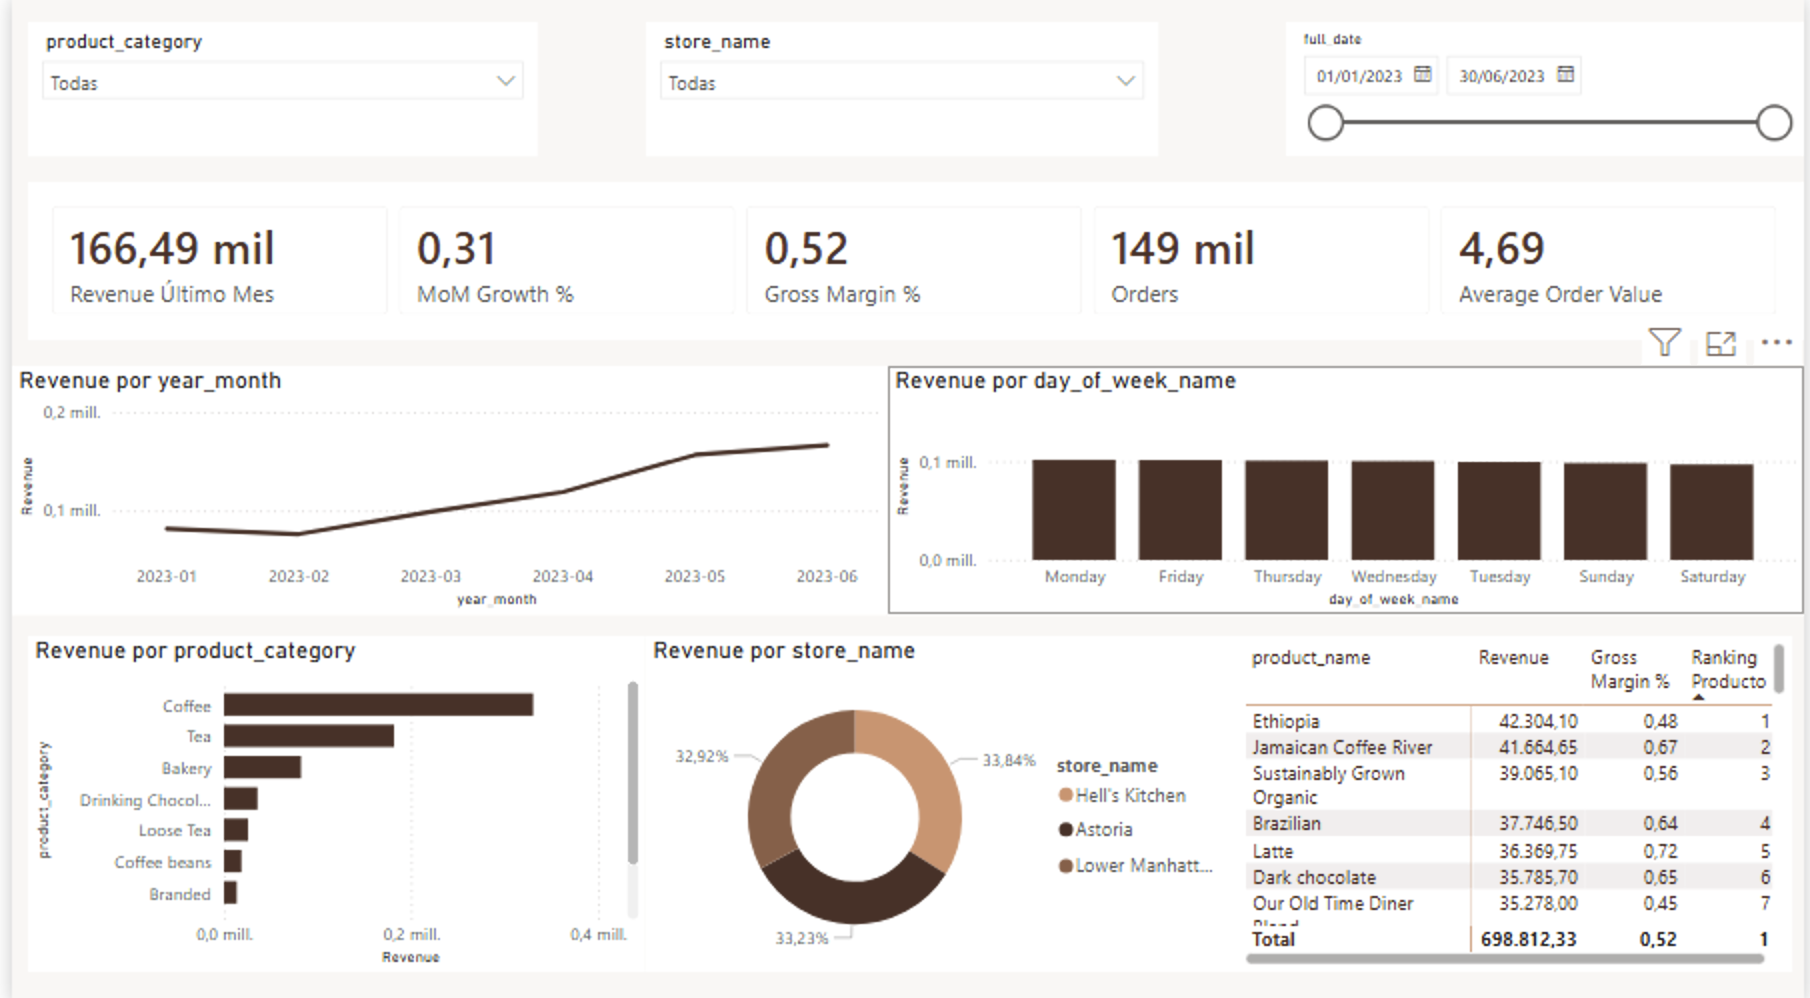
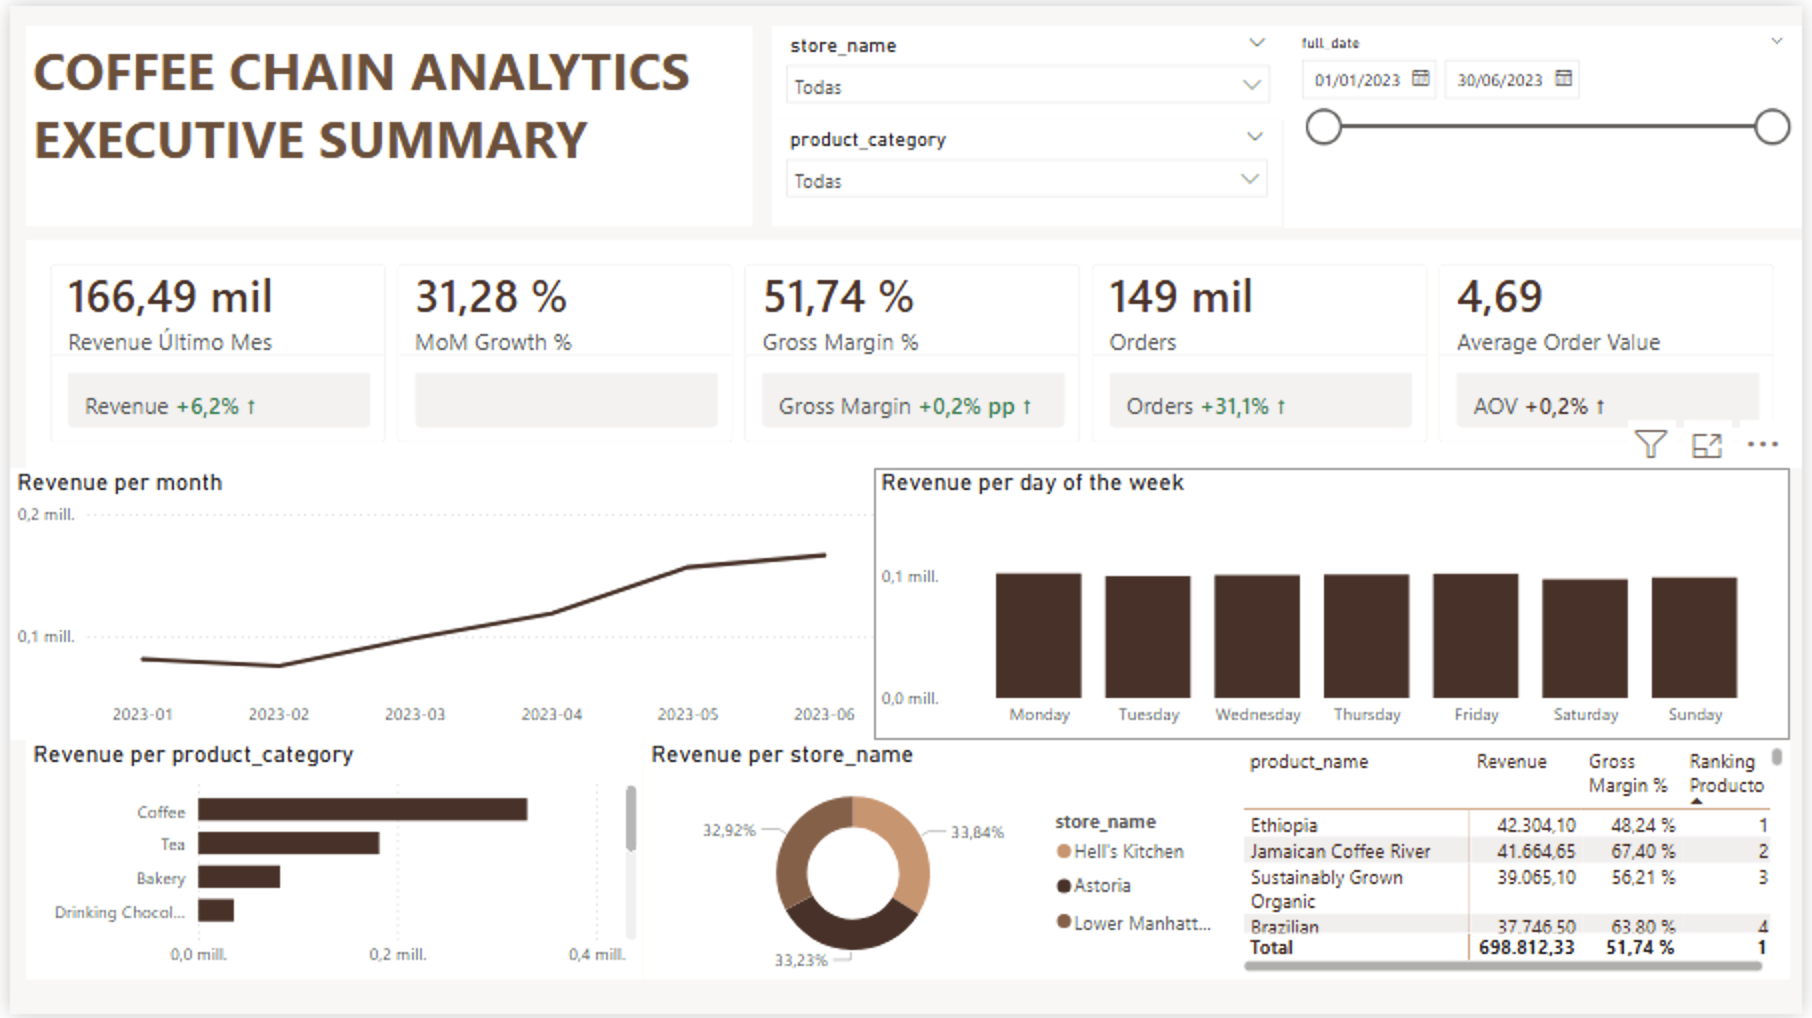
Update BI docs and screenshots to match final dashboard delivery

diff --git a/portfolio/BI_DASHBOARDS.md b/portfolio/BI_DASHBOARDS.md
@@ -28,15 +28,14 @@ No se forzó una capa visual "demasiado completa" con métricas no modeladas tod
 - expansión a dashboards adicionales por audiencia
 
 ## KPIs implementados
-- `Revenue`: suma de `gross_revenue`
-- `Revenue Último Mes`: revenue del último mes disponible en el filtro
-- `MoM Growth %`: variación porcentual de revenue vs período anterior
+- `Revenue Último Mes`: revenue del último mes visible en el rango seleccionado
+- `MoM Growth %`: variación porcentual de revenue vs mes anterior
 - `Gross Profit`: suma de `gross_profit`
 - `Gross Margin %`: `Gross Profit / Revenue`
-- `Orders`: conteo de transacciones
+- `Orders`: conteo de órdenes / transacciones
 - `Average Order Value`: `Revenue / Orders`
 - `Labor Cost %`: `total_labor_cost / daily_revenue`
-- `Labor Cost Status`: semáforo operativo derivado de `Labor Cost %`
+- `Labor Cost Status`: estado operativo derivado de `Labor Cost %`
 - `Waste Amount`: suma de `waste_amount_usd`
 - `Waste Rate %`: merma relativa sobre consumo teórico
 - `Revenue per Labor Hour`: `daily_revenue / total_hours_worked`
@@ -50,8 +49,12 @@ No se forzó una capa visual "demasiado completa" con métricas no modeladas tod
 ### 1. Executive Dashboard
 - Audiencia: dirección y operaciones
 - Objetivo: resumir ventas, margen y volumen comercial del período filtrado
+- Filtros visibles:
+  - `store_name`
+  - `product_category`
+  - rango de fechas `full_date`
 - KPIs visibles:
-  - `Revenue`
+  - `Revenue Último Mes`
   - `MoM Growth %`
   - `Gross Margin %`
   - `Orders`
@@ -61,13 +64,21 @@ No se forzó una capa visual "demasiado completa" con métricas no modeladas tod
   - `Revenue` por día de semana
   - `Revenue` por categoría
   - `Revenue` por tienda
-  - tabla de productos con revenue y margen
+  - tabla de productos con `Revenue`, `Gross Margin %` y ranking
+- Lectura operativa:
+  - sirve para ver el tamaño del negocio en el período seleccionado
+  - compara el último mes contra el anterior
+  - muestra el mix por categoría, tienda y producto
 
 ![Executive Dashboard](img/01_executive_dashboard.png)
 
 ### 2. Labor & Waste Dashboard
 - Audiencia: operaciones / tienda
 - Objetivo: vigilar eficiencia laboral y comportamiento de merma
+- Filtros visibles:
+  - `product_category`
+  - `store_name`
+  - rango de fechas `full_date`
 - KPIs visibles:
   - `Labor Cost %`
   - `Labor Cost Status`
@@ -75,26 +86,38 @@ No se forzó una capa visual "demasiado completa" con métricas no modeladas tod
   - `Waste Amount`
   - `Revenue per Labor Hour`
 - Visuales principales:
-  - `Revenue` y `Labor Cost %` por mes
-  - `Waste Rate %` por mes
+  - gráfico combinado de `Revenue` y `Labor Cost %` por mes
+  - tendencia de `Waste Rate %` por mes
   - gauge de `Labor Cost %`
   - tabla de ingredientes con `Waste Rate %`
+- Lectura operativa:
+  - muestra si la labor está por encima del nivel esperado
+  - resume la presión de merma y su evolución mensual
+  - conecta eficiencia laboral con revenue generado
 
 ![Labor & Waste Dashboard](img/02_labor_waste_dashboard.png)
 
 ### 3. Inventory Dashboard
 - Audiencia: operación de tienda / control de inventario
 - Objetivo: detectar riesgo de quiebre y monitorear disponibilidad de ingredientes
+- Filtros visibles:
+  - `product_category`
+  - `store_name`
+  - rango de fechas `full_date`
 - KPIs visibles:
   - `Stockout HIGH Count Último Día`
   - `Avg Days Inventory`
   - `Closing Stock`
   - `Units Received`
 - Visuales principales:
-  - tabla de ingredientes con días de inventario del último día
+  - tabla de ingredientes del último día con días de inventario y nivel de riesgo
   - tendencia de `Avg Days Inventory`
   - `Stockout HIGH Count` por tienda
-  - promedio de días de inventario por ingrediente
+  - matriz de cobertura por tienda e ingrediente
+- Lectura operativa:
+  - identifica ingredientes con riesgo alto de quiebre
+  - muestra cobertura promedio del inventario disponible
+  - combina una vista puntual del último día con una vista agregada por tienda
 
 ![Inventory Dashboard](img/03_inventory_dashboard.png)
 

diff --git a/portfolio/INTERVIEW_GUIDE.md b/portfolio/INTERVIEW_GUIDE.md
@@ -7,6 +7,11 @@ Plataforma analítica end-to-end para retail de café con `S3 + Athena + dbt + A
 - riesgo de stockout
 - eficiencia laboral
 
+La entrega actual de BI incluye `3 dashboards` funcionales:
+- `Executive Dashboard`
+- `Labor & Waste Dashboard`
+- `Inventory Dashboard`
+
 ## Bullets de CV
 
 ### Data Engineer
@@ -27,13 +32,13 @@ En operación retail, el POS por sí solo no explica el negocio. Para medir merm
 - Athena como capa analítica
 - dbt para modelado y testing
 - Airflow para orquestación
-- Power BI para consumo
+- Power BI para consumo mediante snapshot exportado desde Athena
 
 ### Decisión clave
 El modelo se diseñó con grano explícito. `fct_sales` opera a nivel línea de producto y `fct_waste` a nivel ingrediente x tienda x día. Esa decisión hace posible medir merma de forma defendible.
 
 ### Diferenciador
-La pieza fuerte del proyecto es `Waste & Inventory`, porque une POS, BOM y snapshot físico de inventario. La mayoría de proyectos públicos con este dataset se quedan en ventas y margen.
+La pieza fuerte del proyecto es `Inventory` y la capa de `Labor & Waste`, porque unen POS, BOM y snapshot físico de inventario. La mayoría de proyectos públicos con este dataset se quedan en ventas y margen.
 
 ## Preguntas difíciles
 
